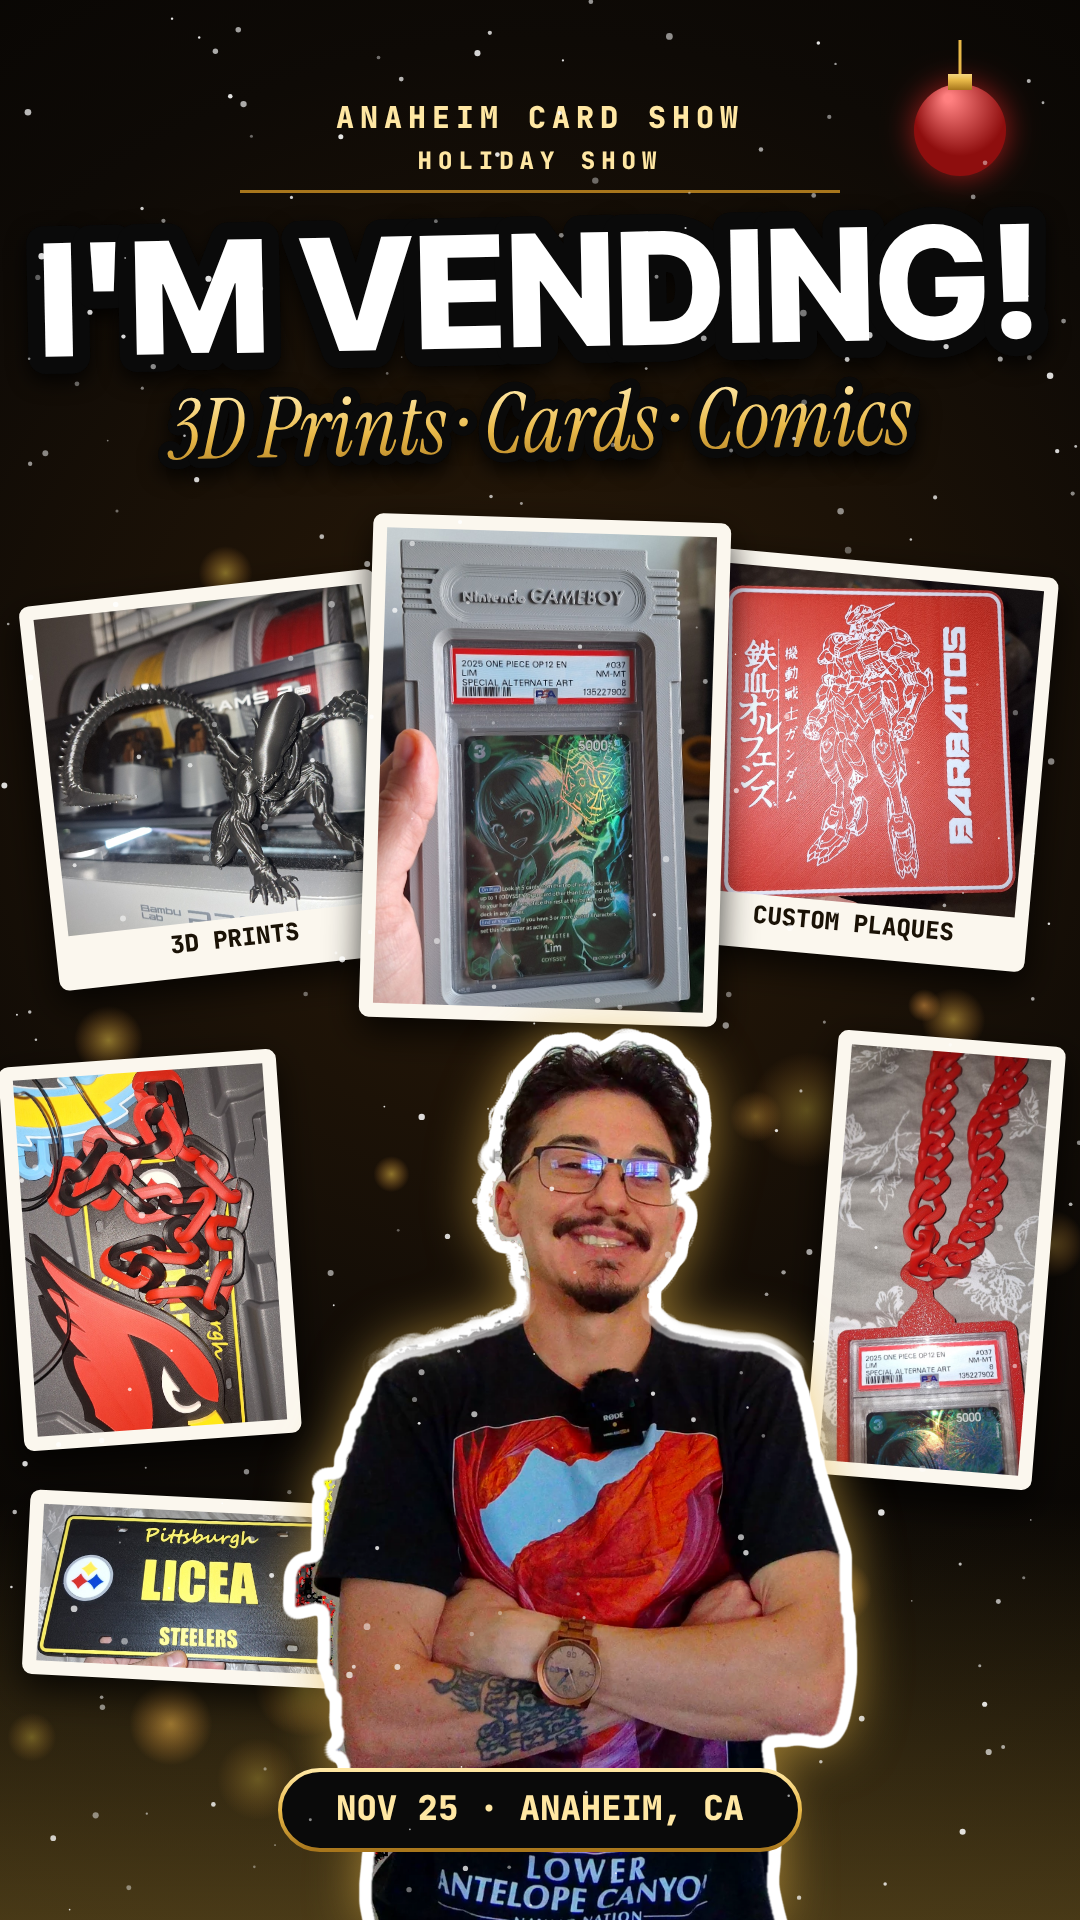
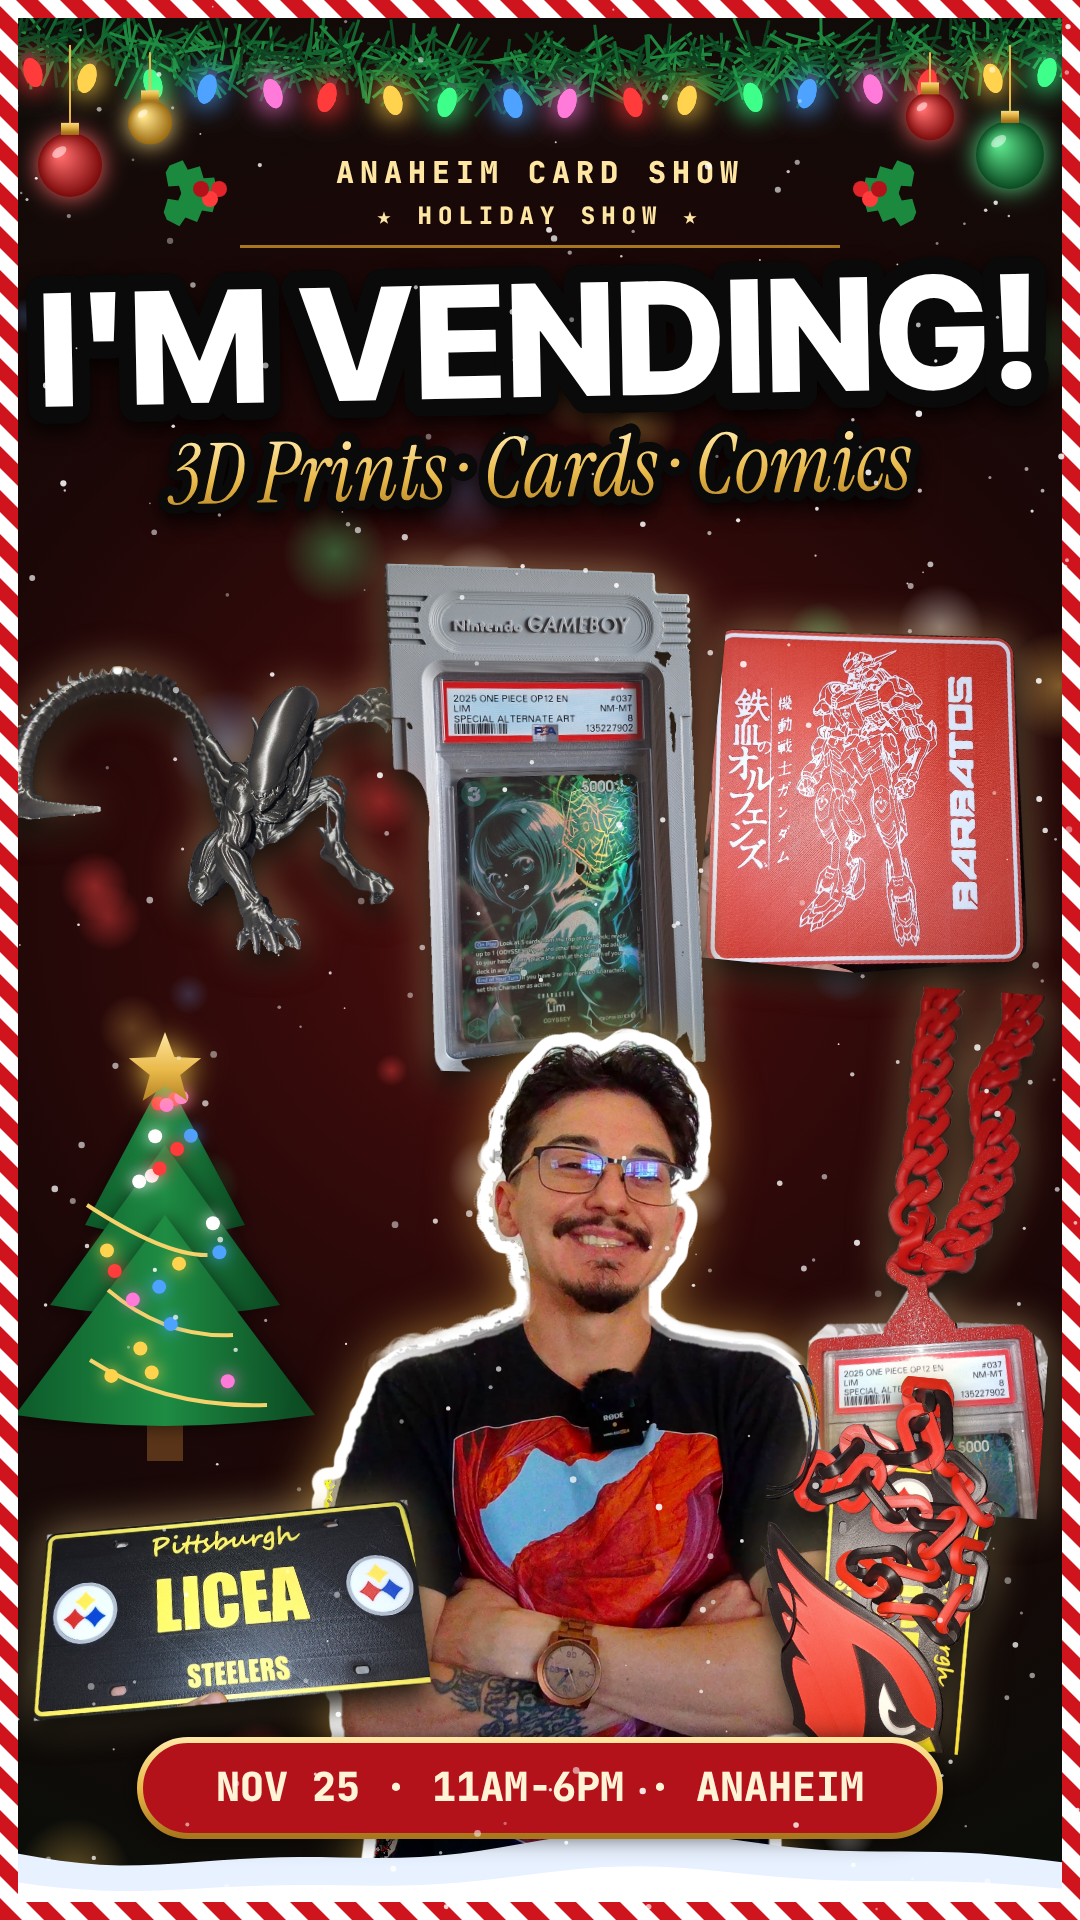
Card show vertical: product cutouts, Christmas decor, Nov 25 11AM-6PM
Claude-Session: https://claude.ai/code/session_01NSJvdmHsHoazKiuuGVQfMY

diff --git a/story/cardshow/thumb_vertical.html b/story/cardshow/thumb_vertical.html
@@ -5,7 +5,7 @@
 <body><canvas id="s" width="1080" height="1920"></canvas>
 <script>
 // YouTube thumbnail (1280×720): Kal vending 3D prints, trading cards and comics at the Anaheim Card Show holiday shows.
-// Black + gold holiday look to match the show's flyer; products are drawn stand-ins.
+// Christmas look: garland + lights, candy-cane border, tree, snow; Kal's real products as cutouts.
 let DATES;
 (async () => {
   const c = document.getElementById('s').getContext('2d'), W = 1080, H = 1920, TAU = Math.PI * 2;
@@ -21,35 +21,43 @@ let DATES;
     c.save(); c.shadowColor = 'rgba(0,0,0,0.8)'; c.shadowBlur = 20; c.shadowOffsetY = 8; c.lineWidth = size * 0.22; c.strokeStyle = INK; c.strokeText(s, 0, 0); c.restore();
     c.lineWidth = size * 0.22; c.strokeStyle = INK; c.strokeText(s, 0, 0); c.fillStyle = typeof fill === 'string' ? fill : gold(-size / 2, size / 2); c.fillText(s, 0, 0); c.restore(); };
 
-  // ---- background: black with warm bokeh lights + falling snow
-  const bg = c.createRadialGradient(540, 760, 40, 540, 760, 1400); bg.addColorStop(0, '#2A1A08'); bg.addColorStop(0.5, '#0E0A06'); bg.addColorStop(1, '#000'); c.fillStyle = bg; c.fillRect(0, 0, W, H);
-  for (let i = 0; i < 26; i++) { const x = rnd() * W, y = 500 + rnd() * 1400, r = 14 + rnd() * 44, g = c.createRadialGradient(x, y, 0, x, y, r); g.addColorStop(0, `rgba(255,${170 + rnd() * 60 | 0},80,${0.25 + rnd() * 0.3})`); g.addColorStop(1, 'rgba(255,160,60,0)'); c.fillStyle = g; c.beginPath(); c.arc(x, y, r, 0, TAU); c.fill(); }
-  // gold floor reflection
-  const fl = c.createLinearGradient(0, 1500, 0, H); fl.addColorStop(0, 'rgba(233,185,73,0)'); fl.addColorStop(1, 'rgba(233,185,73,0.3)'); c.fillStyle = fl; c.fillRect(0, 1500, W, 420);
-
-  // ---- products: Kal's real items as tilted white-framed photo cards
-  const P = {}; for (const n of ['gameboy','alien','barbatos','cardinal','psa','steelers']) P[n] = await img('p_' + n + '.jpg');
-  const photo = (im, x, y, w, rot, tag) => { const h = w * im.height / im.width, f = 14; c.save(); c.translate(x, y); c.rotate(rot);
-    c.shadowColor = 'rgba(0,0,0,0.75)'; c.shadowBlur = 34; c.shadowOffsetY = 14; rr(-w / 2 - f, -h / 2 - f, w + 2 * f, h + 2 * f + (tag ? 40 : 0), 10); c.fillStyle = '#FBF7EE'; c.fill(); c.shadowColor = 'transparent'; c.shadowBlur = 0; c.shadowOffsetY = 0;
-    c.drawImage(im, -w / 2, -h / 2, w, h);
-    if (tag) { c.font = M(800, 24); c.fillStyle = '#1A1206'; c.textAlign = 'center'; c.textBaseline = 'middle'; c.fillText(tag, 0, h / 2 + f + 8); }
+  // ---- background: deep red glow, green edges, multicolour bokeh
+  const bg = c.createRadialGradient(540, 900, 40, 540, 900, 1300); bg.addColorStop(0, '#4A0D0D'); bg.addColorStop(0.45, '#1C0707'); bg.addColorStop(1, '#03100A'); c.fillStyle = bg; c.fillRect(0, 0, W, H);
+  const BOK = ['255,70,70', '80,220,120', '255,200,90', '255,255,255', '110,170,255'];
+  for (let i = 0; i < 40; i++) { const x = rnd() * W, y = 300 + rnd() * 1600, r = 12 + rnd() * 46, col = BOK[i % 5], g = c.createRadialGradient(x, y, 0, x, y, r); g.addColorStop(0, `rgba(${col},${0.22 + rnd() * 0.25})`); g.addColorStop(1, `rgba(${col},0)`); c.fillStyle = g; c.beginPath(); c.arc(x, y, r, 0, TAU); c.fill(); }
+  // snow drifts along the bottom
+  const drift = (y0, amp, col) => { c.beginPath(); c.moveTo(0, H); for (let x = 0; x <= W; x += 20) c.lineTo(x, y0 + Math.sin(x / 140) * amp + Math.sin(x / 57) * amp * 0.4); c.lineTo(W, H); c.closePath(); c.fillStyle = col; c.fill(); };
+  // ---- products: background-removed cutouts with a warm glow
+  const P = {}; for (const n of ['gameboy','alien','barbatos','cardinal','psa','steelers']) P[n] = await img('c_' + n + '.png');
+  const item = (im, x, y, w, rot) => { const h = w * im.height / im.width; c.save(); c.translate(x, y); c.rotate(rot);
+    c.shadowColor = 'rgba(255,220,150,0.55)'; c.shadowBlur = 40; c.drawImage(im, -w / 2, -h / 2, w, h);
+    c.shadowColor = 'rgba(0,0,0,0.8)'; c.shadowBlur = 26; c.shadowOffsetY = 16; c.drawImage(im, -w / 2, -h / 2, w, h); c.restore(); };
+  // Christmas tree (left)
+  const tree = (x, y, s) => { c.save(); c.translate(x, y); c.scale(s, s);
+    c.fillStyle = '#5A3418'; c.fillRect(-18, 150, 36, 46);
+    [[-30, 130, 70], [-100, 75, 105], [-170, 15, 135]].forEach(([t, bw]) => {});
+    const tiers = [[-190, -40, 80], [-120, 40, 115], [-50, 150, 150]];
+    tiers.forEach(([t, bt, hw]) => { c.beginPath(); c.moveTo(0, t); c.lineTo(hw, bt); c.quadraticCurveTo(0, bt + 22, -hw, bt); c.closePath(); const g = c.createLinearGradient(-hw, 0, hw, 0); g.addColorStop(0, '#0D5A2A'); g.addColorStop(0.5, '#1E8C43'); g.addColorStop(1, '#0A4520'); c.fillStyle = g; c.shadowColor = 'rgba(0,0,0,0.6)'; c.shadowBlur = 20; c.fill(); c.shadowBlur = 0; });
+    // tinsel + lights
+    c.strokeStyle = '#F5D36B'; c.lineWidth = 4; [[-130, -60, 50, -10], [-95, 25, 80, 70], [-125, 95, 120, 140]].forEach(([x0, y0, x1, y1]) => { c.beginPath(); c.moveTo(x0 * 0.6, y0); c.quadraticCurveTo(0, (y0 + y1) / 2 + 26, x1 * 0.85, y1); c.stroke(); });
+    const LC = ['#FF3B3B', '#FFD34D', '#4DA3FF', '#FFFFFF', '#FF7AD9'];
+    for (let i = 0; i < 22; i++) { const t = rnd(), yy = -170 + t * 300, hw = 20 + t * 120, xx = (rnd() * 2 - 1) * hw * 0.8; c.fillStyle = LC[i % 5]; c.shadowColor = LC[i % 5]; c.shadowBlur = 16; c.beginPath(); c.arc(xx, yy, 7, 0, TAU); c.fill(); }
+    c.shadowBlur = 0;
+    // star
+    c.save(); c.translate(0, -195); c.shadowColor = '#FFD34D'; c.shadowBlur = 30; c.beginPath(); for (let i = 0; i < 10; i++) { const r = i % 2 ? 16 : 38, a = -Math.PI / 2 + i * Math.PI / 5; c.lineTo(Math.cos(a) * r, Math.sin(a) * r); } c.closePath(); c.fillStyle = gold(-38, 38); c.fill(); c.restore();
     c.restore(); };
-  photo(P.alien, 215, 760, 330, -0.11, '3D PRINTS');
-  photo(P.barbatos, 870, 740, 320, 0.09, 'CUSTOM PLAQUES');
-  photo(P.cardinal, 150, 1250, 250, -0.07, null);
-  photo(P.psa, 935, 1260, 200, 0.08, null);
-  photo(P.steelers, 200, 1590, 320, 0.05, null);
-  photo(P.gameboy, 545, 770, 330, 0.03, null);
-
+  tree(165, 1265, 1.0);
+  item(P.alien, 205, 810, 400, -0.06);
+  item(P.barbatos, 875, 800, 330, 0.1);
+  item(P.gameboy, 545, 820, 330, 0.02);
+  item(P.psa, 935, 1250, 240, 0.07);
   // ---- headline (top-left)
-  c.font = M(800, 30); c.fillStyle = GOLD[0]; c.textBaseline = 'middle'; c.textAlign = 'center'; c.letterSpacing = '6px'; c.fillText('ANAHEIM CARD SHOW', W / 2, 120); c.font = M(800, 24); c.fillText('HOLIDAY SHOW', W / 2, 162); c.letterSpacing = '0px'; c.textAlign = 'left';
-  c.fillStyle = gold(186, 190); c.fillRect(W / 2 - 300, 190, 600, 3);
-  word("I'M VENDING!", W / 2, 300, 156, '#FFFFFF', D, -0.02, 'center');
-  word('3D Prints · Cards · Comics', W / 2, 430, 84, null, SER, -0.02, 'center');
+  c.font = M(800, 30); c.fillStyle = GOLD[0]; c.textBaseline = 'middle'; c.textAlign = 'center'; c.letterSpacing = '6px'; c.fillText('ANAHEIM CARD SHOW', W / 2, 175); c.font = M(800, 24); c.fillText('★ HOLIDAY SHOW ★', W / 2, 217); c.letterSpacing = '0px'; c.textAlign = 'left';
+  c.fillStyle = gold(241, 245); c.fillRect(W / 2 - 300, 245, 600, 3);
+  word("I'M VENDING!", W / 2, 350, 156, '#FFFFFF', D, -0.02, 'center');
+  word('3D Prints · Cards · Comics', W / 2, 475, 84, null, SER, -0.02, 'center');
   // ---- dates pill
-    DATES = () => { c.save(); rr(W / 2 - 260, 1770, 520, 80, 40); c.fillStyle = INK; c.fill(); c.lineWidth = 4; c.strokeStyle = gold(1770, 1850); c.stroke(); c.font = M(800, 34); c.fillStyle = '#FFE7A3'; c.textBaseline = 'middle'; c.textAlign = 'center'; c.fillText('NOV 25 · ANAHEIM, CA', W / 2, 1811); c.restore(); };
-  // ---- ornament
-  c.save(); c.translate(960, 110); c.shadowColor = 'rgba(224,36,36,0.7)'; c.shadowBlur = 30; const og = c.createRadialGradient(-12, -12, 4, 0, 0, 46); og.addColorStop(0, '#FF8080'); og.addColorStop(1, '#8E0E0E'); c.beginPath(); c.arc(0, 20, 46, 0, TAU); c.fillStyle = og; c.fill(); c.shadowBlur = 0; c.fillStyle = gold(-40, -20); c.fillRect(-12, -36, 24, 16); c.strokeStyle = '#E9B949'; c.lineWidth = 3; c.beginPath(); c.moveTo(0, -36); c.lineTo(0, -70); c.stroke(); c.restore();
+    DATES = () => { c.save(); rr(W / 2 - 400, 1740, 800, 96, 48); c.shadowColor = 'rgba(0,0,0,0.7)'; c.shadowBlur = 24; c.fillStyle = '#B3121B'; c.fill(); c.shadowBlur = 0; c.lineWidth = 6; c.strokeStyle = gold(1740, 1836); c.stroke(); c.font = M(800, 40); c.fillStyle = '#FFF4D6'; c.textBaseline = 'middle'; c.textAlign = 'center'; c.fillText('NOV 25 · 11AM-6PM · ANAHEIM', W / 2, 1790); c.restore(); };
 
   // ---- Kal (right), white sticker outline
   const ph = 900, pw = ph * me.width / me.height, px = (W - pw) / 2 + 30, py = H - ph + 20;
@@ -58,7 +66,25 @@ let DATES;
   o.globalCompositeOperation = 'source-in'; o.fillStyle = '#fff'; o.fillRect(0, 0, W, H);
   c.save(); c.shadowColor = 'rgba(233,185,73,0.6)'; c.shadowBlur = 50; c.drawImage(off, 0, 0); c.restore(); c.drawImage(me, px, py, pw, ph);
 
+  // items over the elbows
+  item(P.steelers, 225, 1610, 400, -0.08);
+  item(P.cardinal, 880, 1560, 240, 0.1);
+  drift(1850, 14, '#E8F1FF'); drift(1880, 10, '#FFFFFF');
   DATES();
+  // ---- pine garland + string lights across the top
+  const gy = (x) => 38 + Math.sin(x / W * Math.PI) * 34;
+  for (let i = 0; i < 900; i++) { const x = rnd() * W, y = gy(x) + (rnd() - 0.5) * 38, a = rnd() * TAU, l = 18 + rnd() * 22; c.strokeStyle = ['#0B4A22', '#13662F', '#1F8A3F', '#0E3D1D'][i % 4]; c.lineWidth = 3; c.beginPath(); c.moveTo(x, y); c.lineTo(x + Math.cos(a) * l, y + Math.sin(a) * l); c.stroke(); }
+  const LC2 = ['#FF3B3B', '#FFD34D', '#3DFF8A', '#4DA3FF', '#FF7AD9'];
+  for (let i = 0; i < 18; i++) { const x = 30 + i * 60, y = gy(x) + 22; c.save(); c.translate(x, y); c.rotate((i % 2 ? 0.3 : -0.3)); c.fillStyle = '#333'; c.fillRect(-5, -10, 10, 10); c.shadowColor = LC2[i % 5]; c.shadowBlur = 28; c.fillStyle = LC2[i % 5]; c.beginPath(); c.ellipse(0, 10, 9, 15, 0, 0, TAU); c.fill(); c.fill(); c.restore(); }
+  // ornaments hanging off the garland
+  const orn = (x, len, r, c1, c2) => { const y = gy(x) + len; c.strokeStyle = '#E9B949'; c.lineWidth = 2; c.beginPath(); c.moveTo(x, gy(x)); c.lineTo(x, y - r); c.stroke(); c.save(); c.shadowColor = c1; c.shadowBlur = 25; const g = c.createRadialGradient(x - r / 3, y - r / 3, 3, x, y, r); g.addColorStop(0, c1); g.addColorStop(1, c2); c.fillStyle = g; c.beginPath(); c.arc(x, y, r, 0, TAU); c.fill(); c.restore(); c.fillStyle = gold(y - r - 12, y - r); c.fillRect(x - 9, y - r - 10, 18, 12); c.fillStyle = 'rgba(255,255,255,0.5)'; c.beginPath(); c.ellipse(x - r / 3, y - r / 2.5, r / 4, r / 7, -0.6, 0, TAU); c.fill(); };
+  orn(70, 120, 32, '#FF6B6B', '#7A0A0A'); orn(1010, 110, 34, '#5BE38A', '#0B4A22'); orn(150, 70, 22, '#FFE38A', '#9A6A10'); orn(930, 64, 24, '#FF6B6B', '#7A0A0A');
+  // holly sprigs by the label
+  const holly = (x, y, fl) => { c.save(); c.translate(x, y); c.scale(fl, 1); [[-0.5], [0.4]].forEach(([a]) => { c.save(); c.rotate(a); c.beginPath(); c.moveTo(0, 0); for (let i = 0; i <= 6; i++) { c.lineTo(i * 9, -((i % 2) ? 12 : 4) - Math.sin(i / 6 * Math.PI) * 6); } for (let i = 6; i >= 0; i--) { c.lineTo(i * 9, ((i % 2) ? 12 : 4) + Math.sin(i / 6 * Math.PI) * 6); } c.closePath(); c.fillStyle = '#1C8A3E'; c.fill(); c.restore(); });
+    ['#E0242A', '#FF3B3B', '#B3121B'].forEach((col, i) => { c.fillStyle = col; c.beginPath(); c.arc(-4 + i * 9, -6 + (i % 2) * 10, 8, 0, TAU); c.fill(); }); c.restore(); };
+  holly(215, 195, -1); holly(865, 195, 1);
+  // candy-cane border
+  c.save(); c.beginPath(); c.rect(0, 0, W, H); c.rect(18, 18, W - 36, H - 36); c.clip('evenodd'); c.fillStyle = '#FFFFFF'; c.fillRect(0, 0, W, H); c.fillStyle = '#D0141E'; for (let t = -H; t < W + H; t += 44) { c.beginPath(); c.moveTo(t, 0); c.lineTo(t + 22, 0); c.lineTo(t + 22 + H, H); c.lineTo(t + H, H); c.closePath(); c.fill(); } c.restore();
   // ---- snow over everything
   for (let i = 0; i < 300; i++) { const x = rnd() * W, y = rnd() * H, r = 0.8 + rnd() * 2.6; c.fillStyle = `rgba(255,255,255,${0.35 + rnd() * 0.55})`; c.beginPath(); c.arc(x, y, r, 0, TAU); c.fill(); }
   document.body.dataset.ready = '1';
